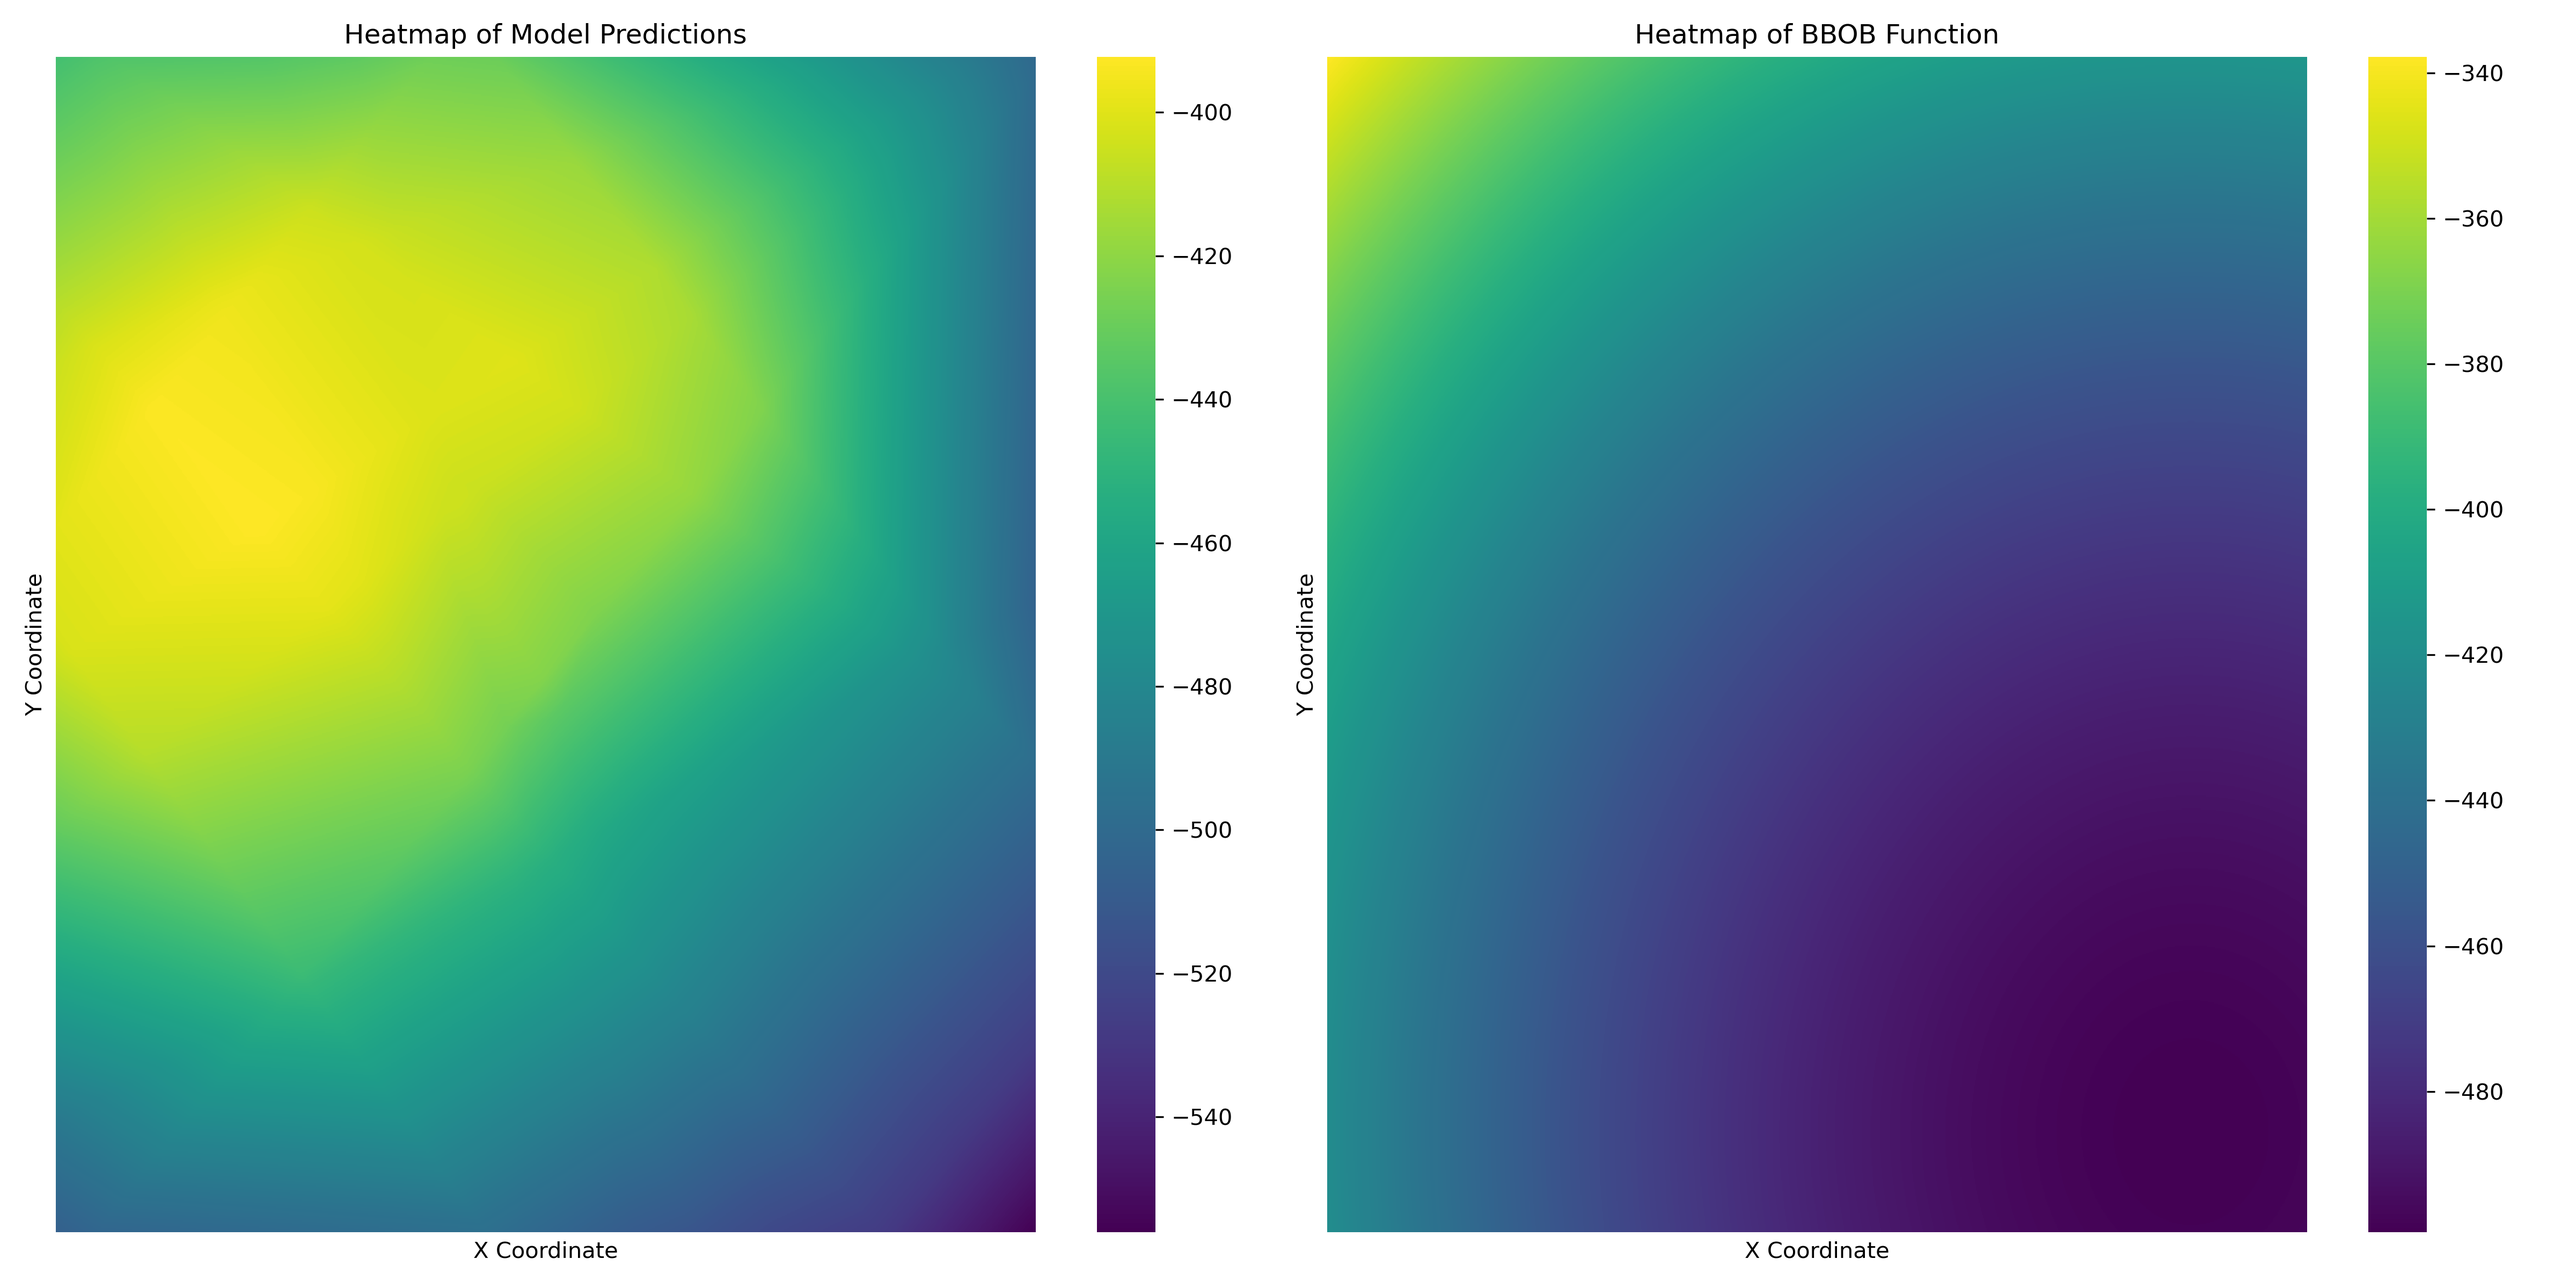
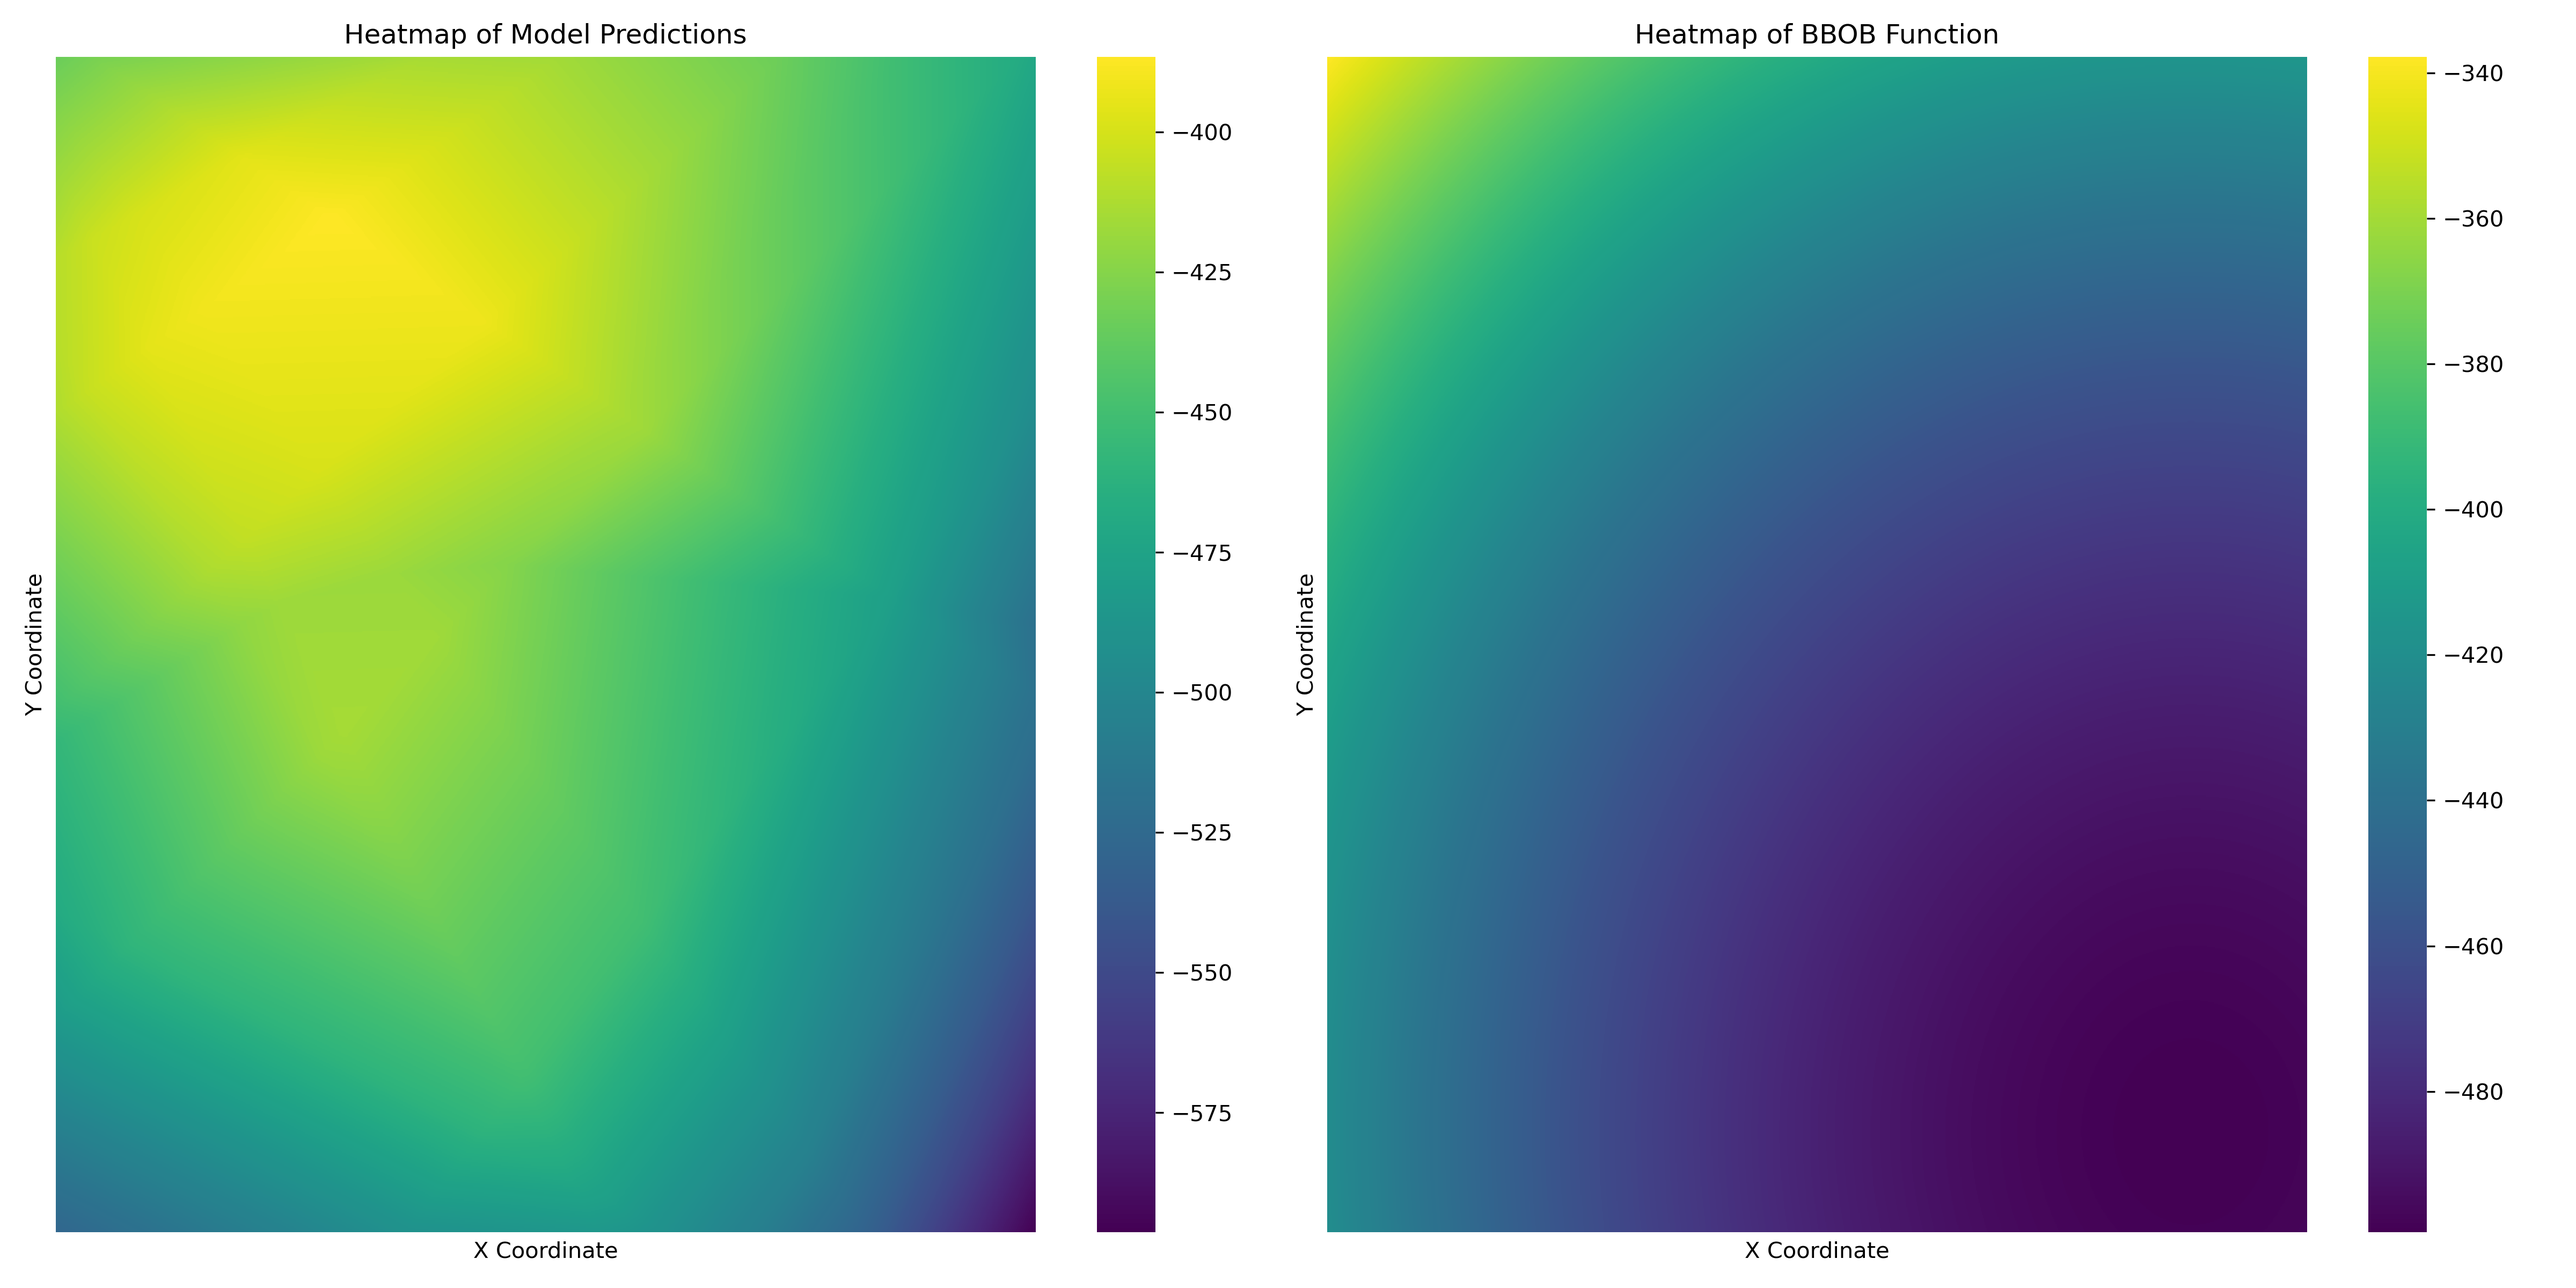
bashinhopping optimization

Changed region(s): [[0.0938, 0.5625, 0.375, 0.9688], [0.0, 0.2188, 0.3125, 0.6875], [0.0, 0.0312, 0.4062, 0.4062]]

diff --git a/src/bin/Visualization.py b/src/bin/Visualization.py
@@ -1,0 +1,66 @@
+import torch
+import numpy as np
+import matplotlib.pyplot as plt
+from sklearn.preprocessing import StandardScaler
+import seaborn as sns
+
+
+class visualization():
+    def __init__(self, model, function) -> None:
+        self.model = model
+        self.function = function
+        self.scaler = StandardScaler()
+
+    def _get_gt_function(self, x_grid, y_grid):
+        fn = function
+        flat_grid = np.column_stack((x_grid.ravel(), y_grid.ravel()))
+
+        # Convert flat_grid to a PyTorch Tensor
+        flat_grid_tensor = torch.tensor(flat_grid, dtype=torch.float32)
+
+        # Evaluate the ground-truth function using the bbobtorch function
+        results = fn(flat_grid_tensor)
+
+        return results.numpy().reshape(x_grid.shape) 
+    
+    def evaluate_grid(self, nn_results, bbob_results):
+        # Generate the grid of input data
+        x_grid, y_grid = np.meshgrid(np.arange(-5, 5.01, 0.01), np.arange(-5, 5.01, 0.01))
+
+
+        # Convert the scaled grid data to PyTorch tensor
+        grid_data_tensor = torch.tensor((x_grid, y_grid), dtype=torch.float32)
+
+        # Set the model to evaluation mode
+        self.model.eval()
+
+        # Pass the grid data through the model to get predictions
+        with torch.no_grad():
+            predictions = self.model(grid_data_tensor).view(x_grid.shape)
+
+        # Get the ground-truth function values on the grid
+        function_values = self._get_gt_function(x_grid, y_grid)
+
+        # Plot the heatmaps
+        self._plot_heatmap(x_grid, y_grid, predictions, function_values, nn_results, bbob_results)
+    
+    def plot_heatmap(self, x_grid, y_grid, predictions, function_values, nn_results, bbob_results):
+        fig, axes = plt.subplots(1, 2, figsize=(16, 8))
+        sns.heatmap(predictions, cmap='viridis', xticklabels=False, yticklabels=False, ax=axes[0])
+        axes[0].set_xlabel('X Coordinate')
+        axes[0].set_ylabel('Y Coordinate')
+        axes[0].set_title('Heatmap of Model Predictions')
+
+        sns.heatmap(function_values, cmap='viridis', xticklabels=False, yticklabels=False, ax=axes[1])
+        axes[1].set_xlabel('X Coordinate')
+        axes[1].set_ylabel('Y Coordinate')
+        axes[1].set_title('Heatmap of BBOB Function')
+
+        plt.tight_layout()
+
+
+        # Overlay datapoints on the heatmap
+        
+        plt.text(bbob_results.x[0], bbob_results.x[1], str(bbob_results.fun), ha='center', va='center', color='red', weight='bold')
+
+        plt.show() 

diff --git a/src/bin/Basinhopping_optimizer.py b/src/bin/Basinhopping_optimizer.py
@@ -1,0 +1,57 @@
+import json
+import numpy as np
+import pandas as pd
+import torch
+import torch.nn as nn
+import bbobtorch
+from scipy.optimize import basinhopping
+from bin.Visualization import visualization as vis
+
+class Basinhopping_optimizer():
+    def __init__(self, model_path, input_bounds=None) -> None:   
+        self.model = self.load_model(model_path)
+        self.input_bounds = input_bounds
+        self.model.eval()
+        self.bbob = bbobtorch.create_f24(2, seed=42)
+   
+    def load_model(self, path):
+       return torch.load(path)
+   
+   
+    def call_nn(self, x):
+        # Convert x to torch tensor
+        if self.input_bounds:
+            penalty = 0
+            for val, (min_val, max_val) in zip(x, self.input_bounds):
+                if val < min_val or val > max_val:
+                    penalty += 1e5  # Adjust the penalty value based on your specific needs 
+        
+        x_tensor = torch.tensor(x, dtype=torch.float32).unsqueeze(0)  # unsqueeze to add batch dimension
+        y = self.model(x_tensor)
+        y_scalar = torch.sum(y).item() + penalty        
+        return y_scalar
+    
+    def optimize(self, initial_guess, niter=1000, T=1.0, stepsize=0.05):
+        result_nn = basinhopping(self.call_nn, initial_guess, niter=niter, T=T, stepsize=stepsize)
+        result_bbob = basinhopping(self.call_bbob, initial_guess, niter=niter, T=T, stepsize=stepsize)
+        #self.visualize(result_nn, result_bbob)
+        return result_nn, result_bbob
+    
+    def visualize(self, result_nn, result_bbob):
+        heatmap = vis(model= self.model, function=self.bbob)
+        heatmap.evaluate_grid(nn_results=result_nn, bbob_results=result_bbob)
+    
+# call Bbob for minimization
+    def call_bbob(self, x):
+        if self.input_bounds:
+            penalty = 0
+            for val, (min_val, max_val) in zip(x, self.input_bounds):
+                if val < min_val or val > max_val:
+                    penalty += 1e5  # Adjust the penalty value based on your specific needs
+        
+        x_tensor = torch.tensor(x, dtype=torch.float32)
+        y = self.bbob(x_tensor)
+        y_scalar = torch.sum(y).item() + penalty      
+        return y_scalar
+    
+   

diff --git a/src/main.py b/src/main.py
@@ -2,6 +2,8 @@ import sys
 import os
 import json
 from bin.Training_SimpleNeuralNet import Trainer
+from bin.SimpleNeuralNet import SimpleNeuralNet
+from bin.Basinhopping_optimizer import Basinhopping_optimizer as bh_optimizer
 
 
 def open_config(config_file_path):
@@ -11,25 +13,27 @@ def open_config(config_file_path):
 
 def main():
 
-    config_file_path = 'config/training_version_1.json'
-    config = open_config(config_file_path)
-
-    for i in range(0,len(config["data_file_path"])):
-        trainer = Trainer(
-            config["data_file_path"][i], 
-            config["seed"][i], 
-            config["neurons_per_layer"][i], 
-            config["num_layers"][i], 
-            config["learning_rate"][i], 
-            config["batch_size"][i], 
-            config["num_epochs"][i], 
-            config["save_image"][i], 
-            config["image_name"][i],
-            config["save_model"][i],
-            config["model_name"][i],
-        )
-        trainer.train()
-        trainer.evaluate_grid()
-
+    config = open_config("config/training_version_1.json")
+    training = False
+    if training:
+        for i in range(0,len(config["data_file_path"])):
+            trainer = Trainer(
+                config["data_file_path"][i], 
+                config["seed"][i], 
+                config["neurons_per_layer"][i], 
+                config["num_layers"][i], 
+                config["learning_rate"][i], 
+                config["batch_size"][i], 
+                config["num_epochs"][i], 
+                config["save_image"][i], 
+                config["image_name"][i],
+                config["save_model"][i],
+                config["model_name"][i],
+            )
+            trainer.train()
+            trainer.evaluate_grid()     
+    basehop_opt = bh_optimizer(model_path="models/training_v1_f24_3.pth", input_bounds=[(-5.0,5.0), (-5.0,5.0)])
+    result = basehop_opt.optimize(initial_guess = [1,-1])
+    print(result)
 if __name__ == "__main__":
     main()

diff --git a/src/bin/Training_SimpleNeuralNet.py b/src/bin/Training_SimpleNeuralNet.py
@@ -50,6 +50,7 @@ class Trainer():
         # Extracting features (x and y) and labels (k)
         X = data[['coord_0', 'coord_1']].values
         y = data['f_value'].values
+        
 
         # Split the data into training and testing sets
         self.X_train, self.X_test, self.y_train, self.y_test = train_test_split(X, y, test_size=0.2, random_state=self.seed)
